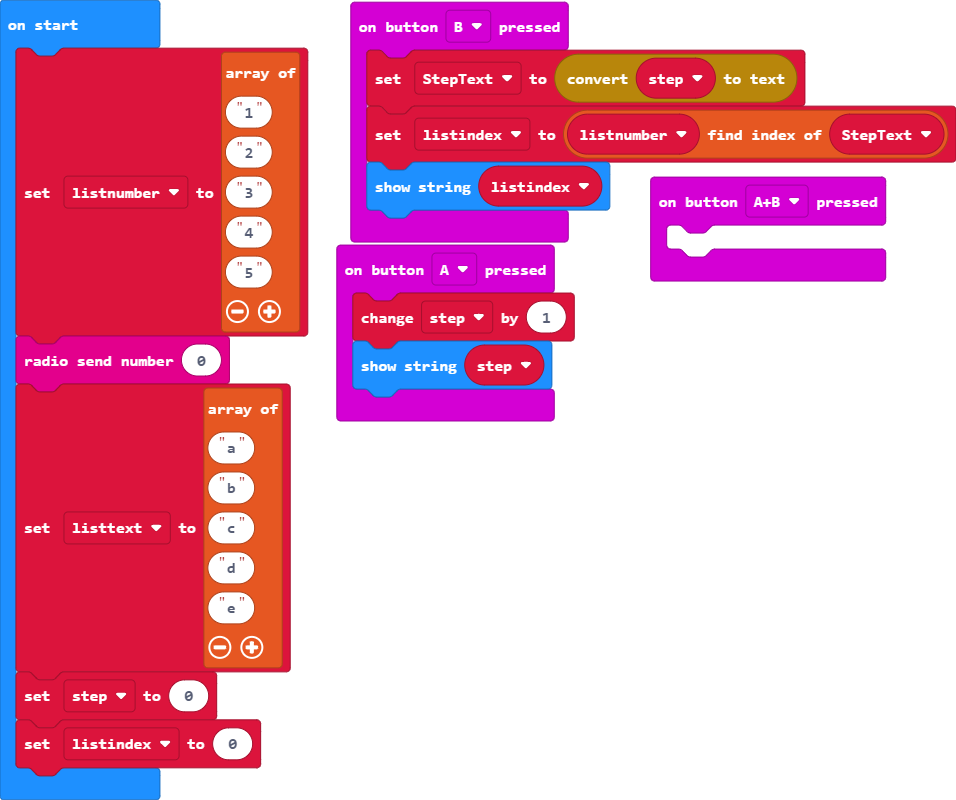
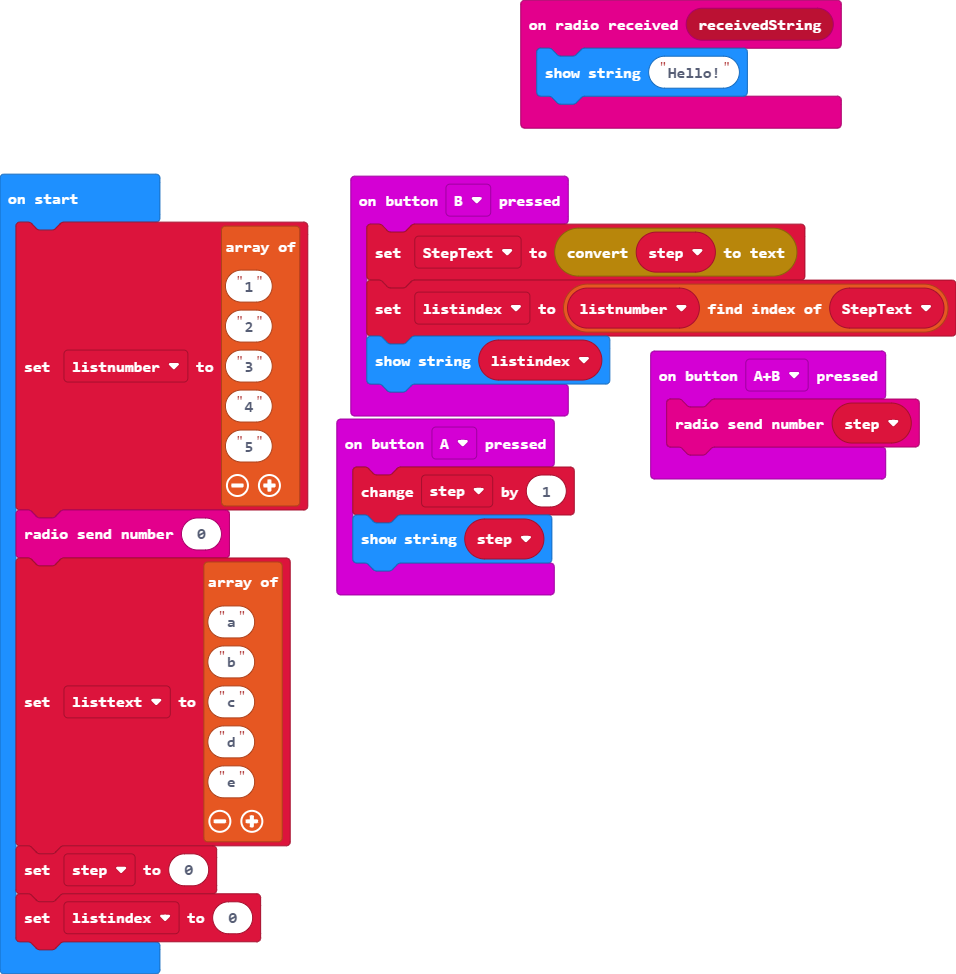
Update main.blocks, main.ts

diff --git a/main.ts b/main.ts
@@ -3,7 +3,10 @@ input.onButtonPressed(Button.A, function () {
     basic.showString("" + (step))
 })
 input.onButtonPressed(Button.AB, function () {
-	
+    radio.sendNumber(step)
+})
+radio.onReceivedString(function (receivedString) {
+    basic.showString("Hello!")
 })
 input.onButtonPressed(Button.B, function () {
     StepText = convertToText(step)
